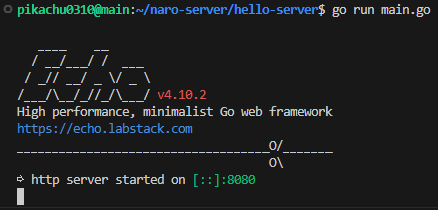
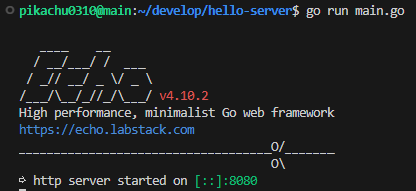
画像の差し替え、微修正、最終調整

Changed region(s): [[0.0312, 0.2356, 0.8125, 0.8901], [0.0, 0.0, 1.0, 0.1047], [0.0312, 0.8901, 0.625, 1.0]]

diff --git a/docs/chapter1/section3/3_server-exercise.md b/docs/chapter1/section3/3_server-exercise.md
@@ -297,4 +297,4 @@ curl -X GET "http://localhost:8080/students/3/1"
 
 ここまで出来たら、講習会の実況用チャンネルに`./test.sh`の出力結果を貼りましょう！
 
-(長いので\`\`\`ここに内容\`\`\`のように内容を\`\`\`で囲い、コードブロックにすると良いです。)
+(出力結果は長いので、\`\`\`ここに内容\`\`\`のように内容を\`\`\`で囲い、コードブロックにして送信すると良いです。)

diff --git a/docs/chapter1/section3/0_hello-server.md b/docs/chapter1/section3/0_hello-server.md
@@ -22,8 +22,6 @@ $ man mkdir
 
 :::warning
 作ったディレクトリやファイルの名前が違うと、上手く実行できない場合があります。
-
-また、以下に出てくる画像では`~/naro-server/hello-server`となってるのですが、皆さんは`~/develop/hello-server`のはずなので、適宜読み替えてください。
 :::
 
 作ったディレクトリの中に`main.go`を作成し、以下のプログラムを書き込みます。
